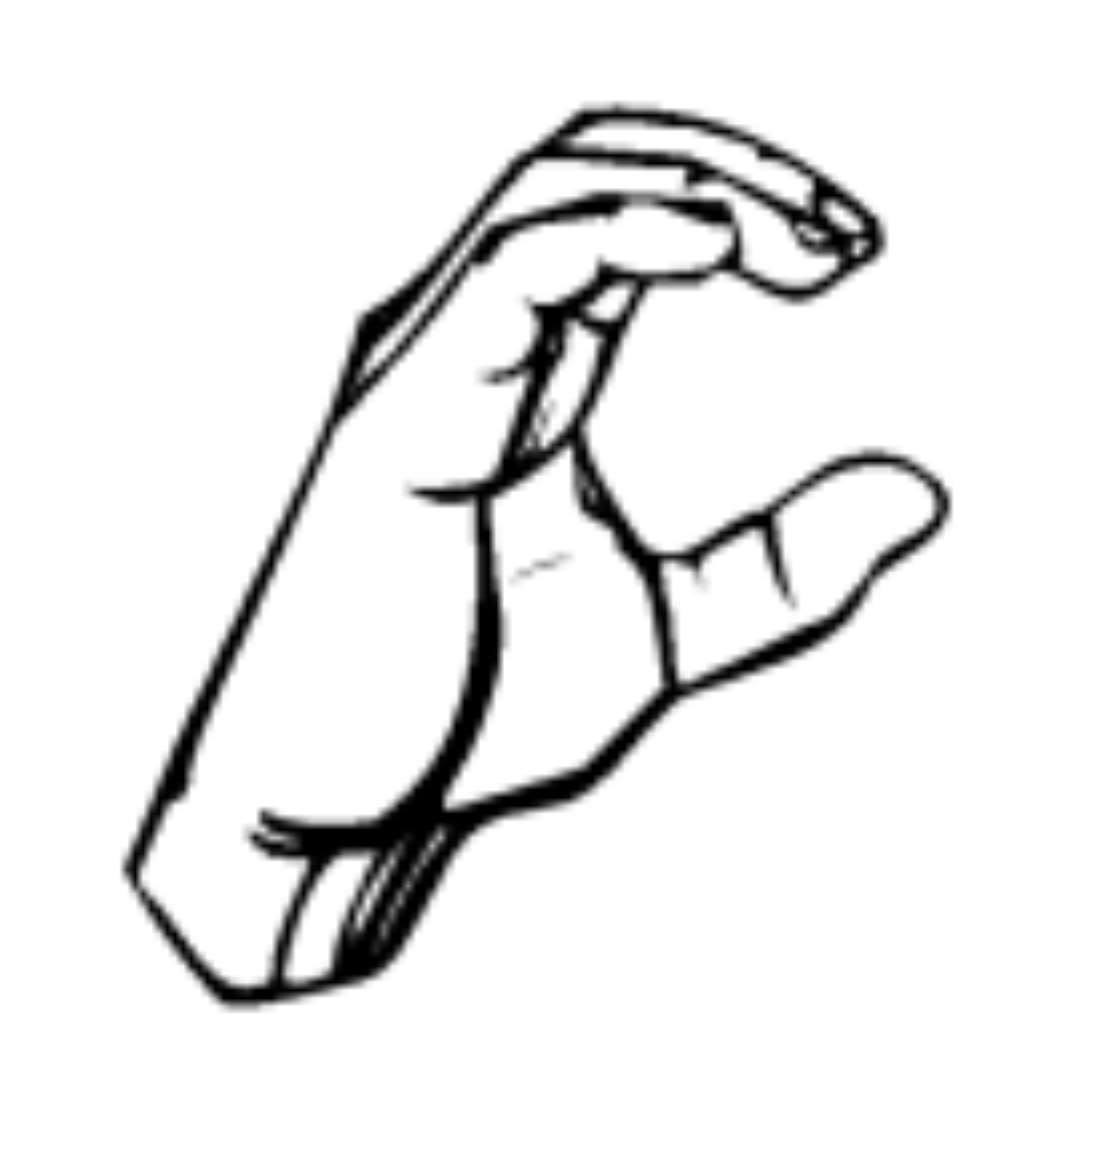
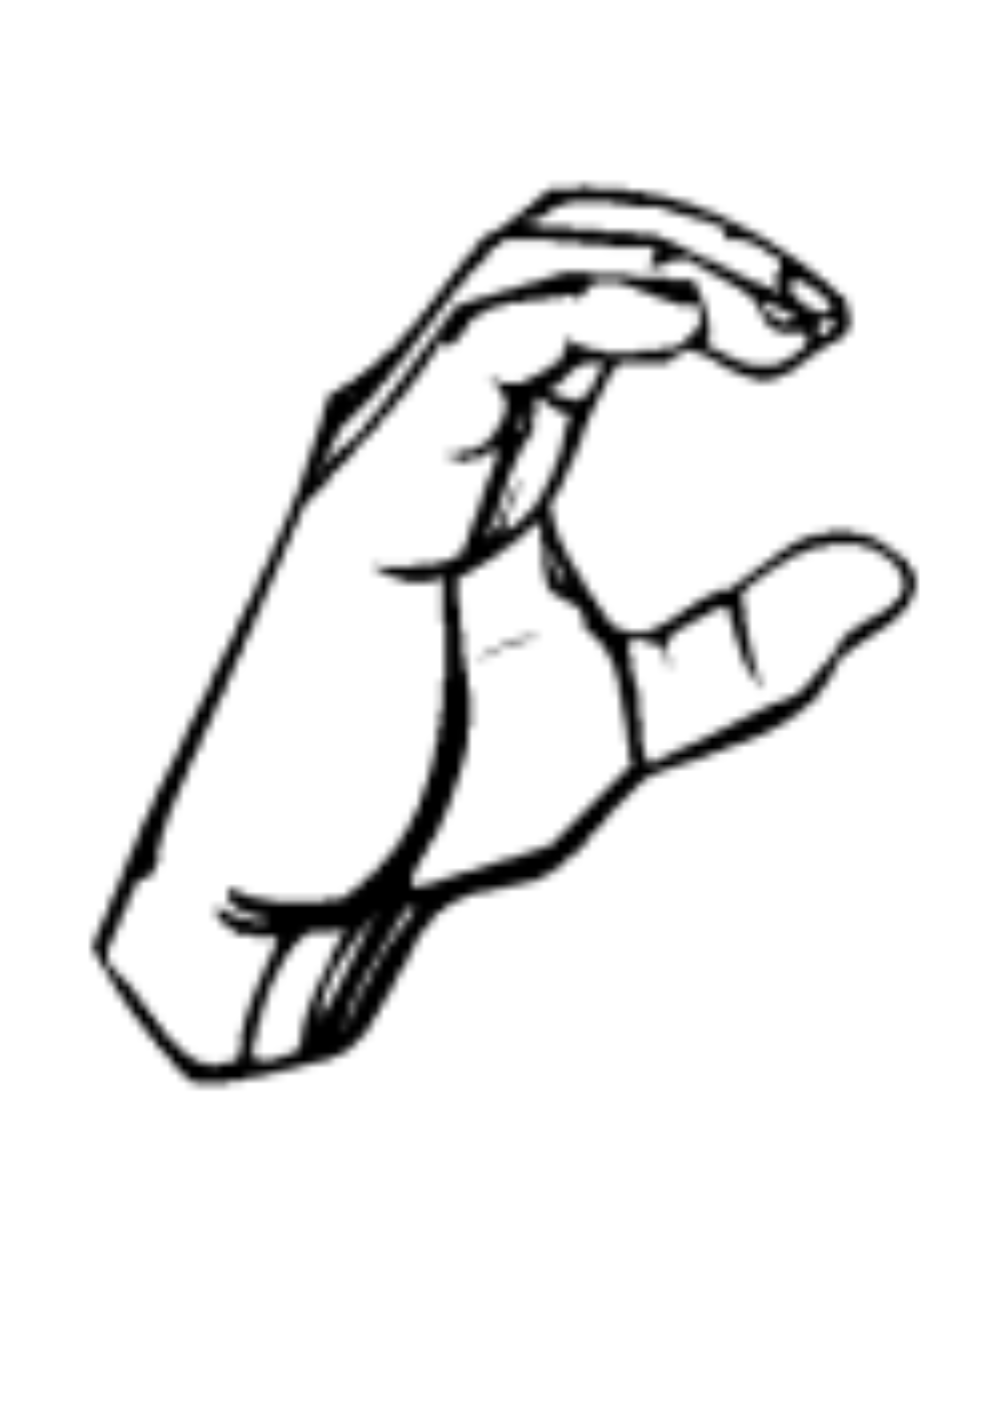
frontend: did stuff with the cards, navbar, not done yet

Changed region(s): [[0.0934, 0.062, 0.9337, 0.8675]]

diff --git a/weecs-asl-practice/src/styling/learn.css b/weecs-asl-practice/src/styling/learn.css
@@ -1,18 +1,55 @@
 /* styling for learn page */
 
+
+body {
+    margin: 0;
+    min-height: 100vh;
+    background-color: white;
+    font-family: Georgia, serif;
+}
+
+/* LEARN PAGE TITLE SECTION */
+.learn-title
+{   
+    gap: 100px;
+    margin-bottom: 30px;
+}
+
+.learn-title h1
+{
+    margin-top: 50px;
+    margin-bottom: 50px;
+
+}
+
+/* LEARN PAGE CARD SECTION */
 .letter-card-container
 {
     display: flex; 
+    flex-wrap: wrap;
+    justify-content: center;
+    flex-direction: row;
+    gap: 30px;
+    margin-right: 20px;
+    margin-left: 20px;
+
 }
 
-.letter-card
+.letter-learn-card
 {
+    flex: 0 0 200px;         
     justify-content: center;
-    margin: 20px;
-    padding: 10px;
+    margin: 10px;
+    padding: 5px;
     padding-bottom: 50px;
     background-color: black;
     border-radius: 10px;
+    border: 5px solid #1e0c6d;
+    box-sizing: border-box;
+    max-width: 100%;
+    width: 100%;
+    height: 100%;
+    max-height: 300px;
 
 }
 
@@ -21,10 +58,15 @@
     color: white;
 }
 
-.letter-card-container img
+.letter-learn-card img
 {
     width: 100%;
     height: 100%;
     max-width: 200px;
-    max-height: 200;
+    max-height: 400px;
+    border-radius: 5px;
+    object-fit: cover;
+    object-position: center;
+    aspect-ratio: 3 / 4; 
+    background-color: white;
 }

diff --git a/weecs-asl-practice/src/components/NavBar.jsx b/weecs-asl-practice/src/components/NavBar.jsx
@@ -1,7 +1,7 @@
 //header with links to pages project title(home), learn, practice, progress
 
-import { Link } from 'react-router-dom'
-
+import { NavLink } from 'react-router-dom'
+import hero from "../assets/hero.png"
 export default function NavBar()
 {
 
@@ -9,11 +9,13 @@ export default function NavBar()
 
         <nav class = "nav-bar">
 
-            <Link id ="bar-title" to="/">Home</Link>
+            <NavLink id ="bar-title" to="/">
+              <img src={hero} alt="Home" className="nav-logo" />
+            </NavLink>
             <div class = "bar-link">
-                <Link  to="/learn">Learn</Link>
-                <Link  to="/practice">Practice</Link>
-                <Link  to="/progress">Progress</Link>
+                <NavLink  to="/learn">Learn</NavLink>
+                <NavLink  to="/practice">Practice</NavLink>
+                <NavLink  to="/progress">Progress</NavLink>
             </div>
 
         </nav>

diff --git a/weecs-asl-practice/src/styling/practice.css b/weecs-asl-practice/src/styling/practice.css
@@ -18,12 +18,12 @@ body {
 /* NAVIGATION BAR */
 .nav-bar
 {
-    background-color: white;
+    background-color: rgb(77, 154, 226);
     display: flex;
     flex-direction: row;
     align-items: center;
     justify-content: space-between;
-    border-bottom: 5px solid #222 ;
+    border-bottom: 5px solid #1e0c6d ;
     padding: 15px;
 
 }
@@ -31,11 +31,27 @@ body {
 /* LINK COLORS and some spacing*/
 .nav-bar a {
   font-family: Georgia, serif;
-  color: #222;
+  color: #000000;
   text-decoration: none; /* removes the underline too */
   margin-left: 20px;
   margin-right: 20px;
+  font-size: 18px;
 }
+
+.nav-bar a.active {
+    font-weight: bold;
+}
+
+.nav-logo
+{
+    width: 100%;
+    height: 100%;
+    max-width: 30px;
+    max-height: 30px;
+
+}
+
+
 
 .bar-link
 {

diff --git a/weecs-asl-practice/src/pages/Learn.jsx b/weecs-asl-practice/src/pages/Learn.jsx
@@ -6,18 +6,21 @@ import LetterCard from '../components/LetterCard'
 function Learn()
 {
 
-    const lettersArr = ['B', 'C'];
+    const lettersArr = ['B', 'C','B', 'C','B', 'C','B', 'C','B', 'C',];
 
    return(
 
     <main>
         <NavBar/>
+        
+        <div class="learn-title">
         <h1>LEARN</h1>
 
         <p>click a card to learn more!</p>
+        </div>
 
         {/* cards for each letter */}
-        <div>
+        <div class="letter-card-container">
             {lettersArr.map((currLetter) => (
                 <LetterCard
                     key={currLetter}

diff --git a/weecs-asl-practice/src/components/LetterCard.jsx b/weecs-asl-practice/src/components/LetterCard.jsx
@@ -9,8 +9,8 @@ export default function LetterCard({letter})
     );
 
     return(
-        <div class="letter-card-container">
-            <div class = "letter-card">
+        <div>
+            <div class = "letter-learn-card">
                 <h2 id = "letter-piece">{letter}</h2>
                 <img src={letters[`../assets/letterimg/letter${letter}.png`]}></img>
             </div>
